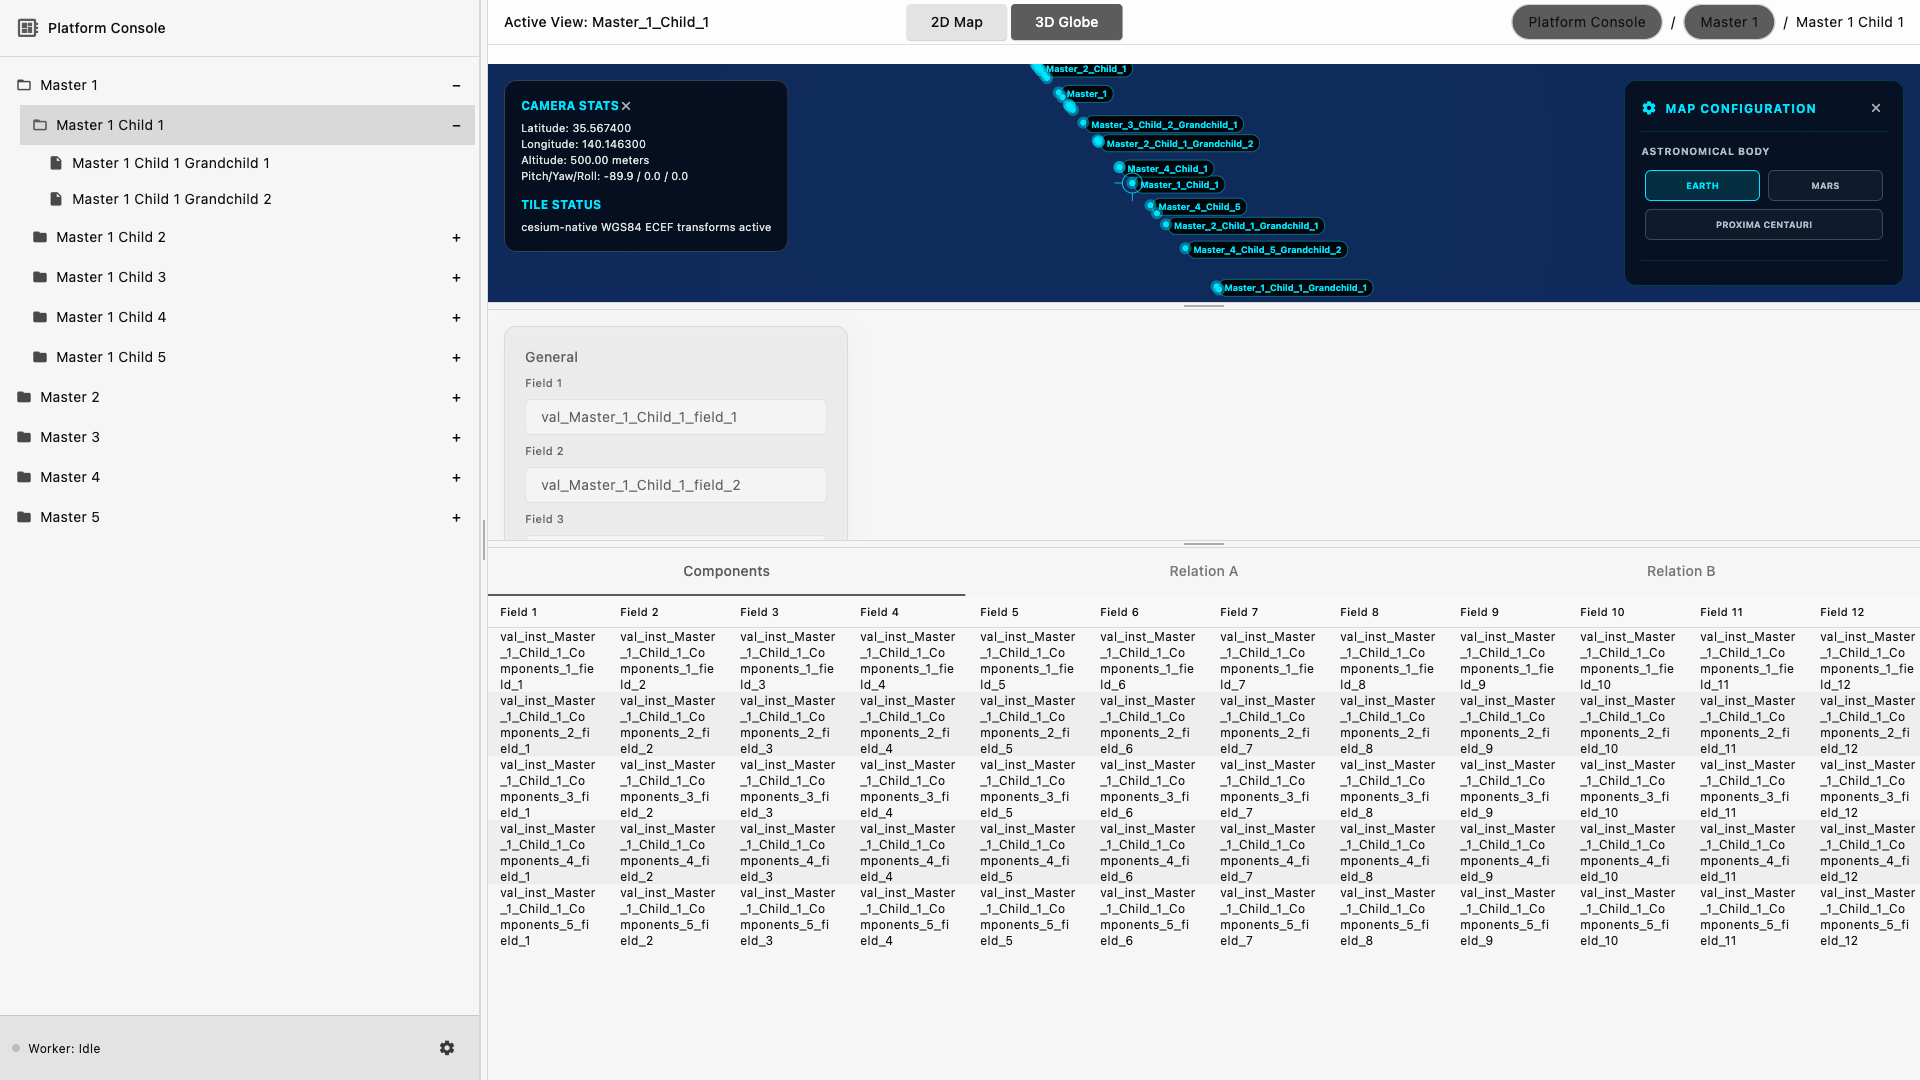
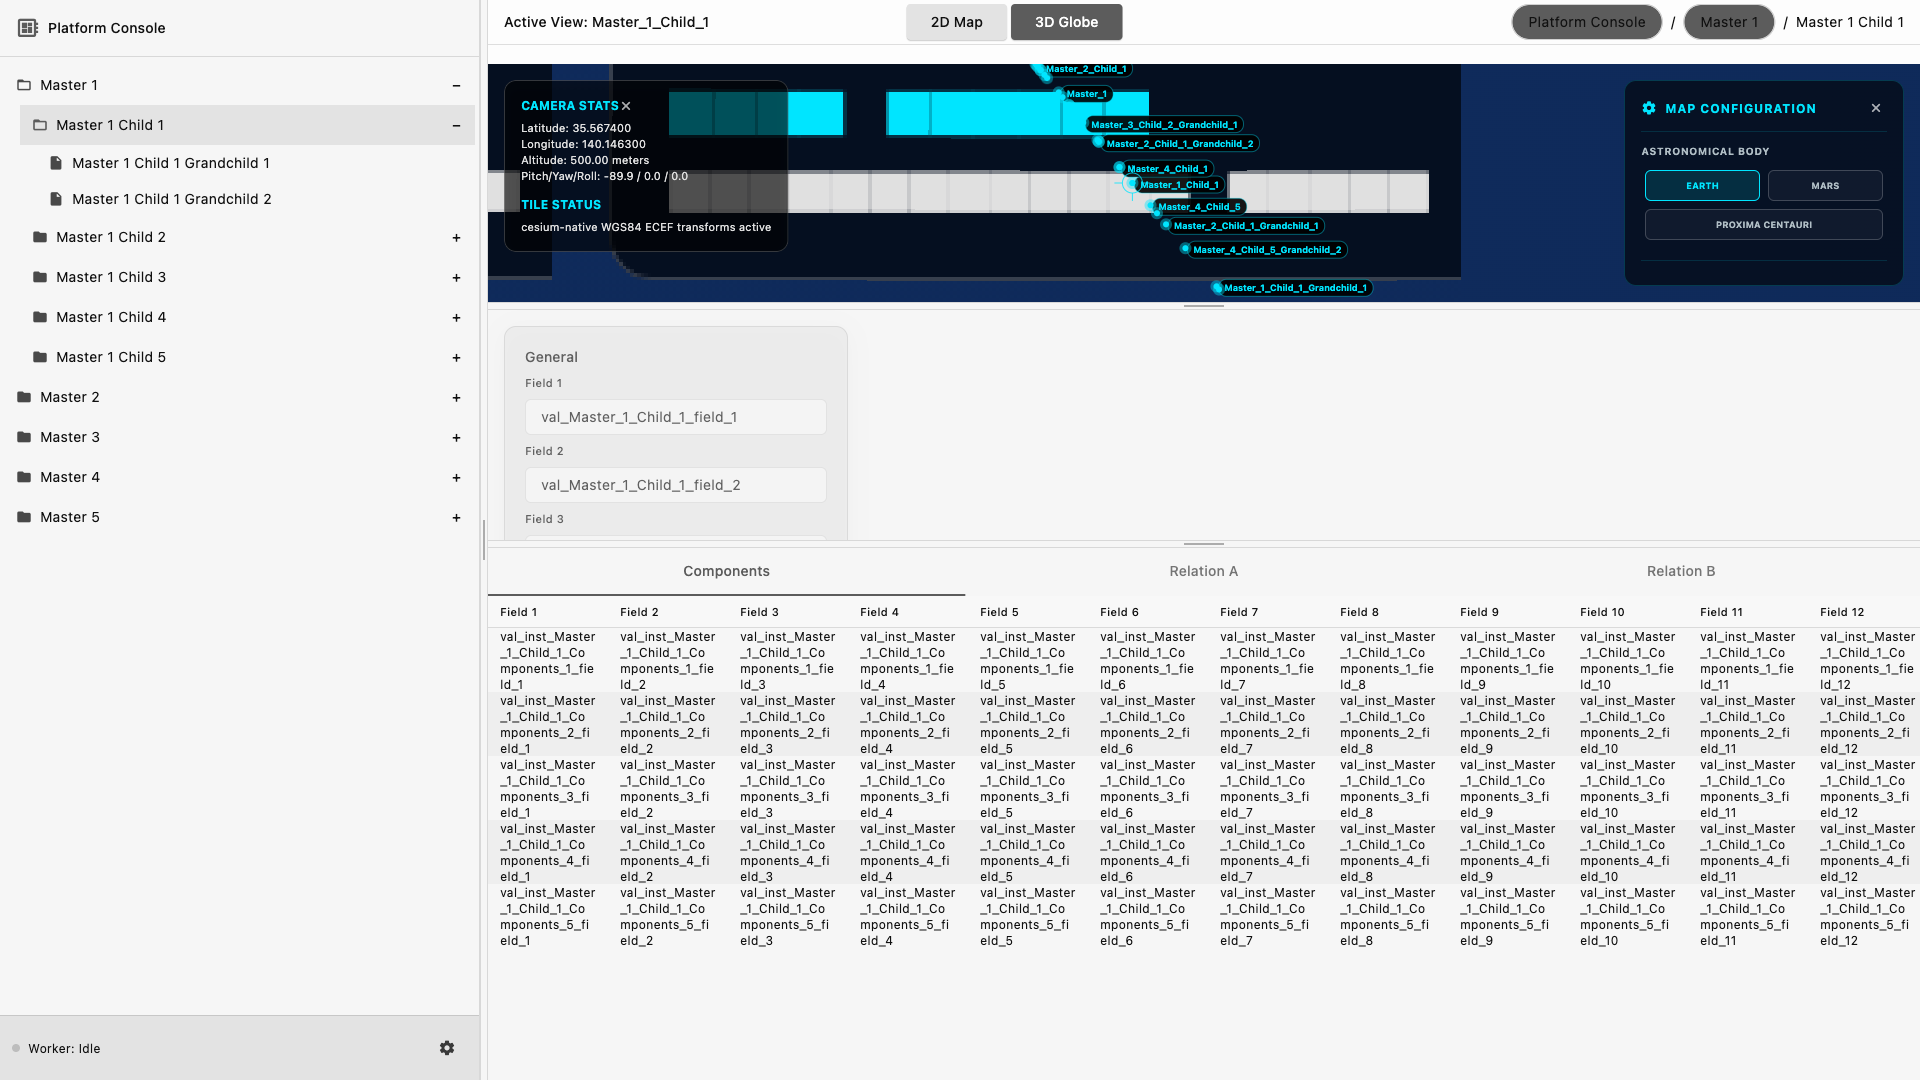
Refactor integration test to wait and stabilize tile loading before each screenshot

Changed region(s): [[0.3125, 0.0611, 0.7812, 0.275], [0.25, 0.0611, 0.2812, 0.275]]

diff --git a/app_flutter/integration_test/camera_gestures_navigation_test.dart b/app_flutter/integration_test/camera_gestures_navigation_test.dart
@@ -130,17 +130,25 @@ void main() {
 
     Future<void> waitForTilesToLoad() async {
       final state = tester.state(find.byType(Scene3DViewport)) as Scene3DViewportState;
+      int stableTicks = 0;
+      int lastCount = -1;
       int attempts = 0;
-      while (attempts < 50) {
+      while (attempts < 100) {
         final int count = state.tileRenderer?.loadedImagesCount ?? 0;
-        if (count > 0) {
+        if (count >= 4 && count == lastCount) {
+          stableTicks++;
+        } else {
+          stableTicks = 0;
+        }
+        lastCount = count;
+        if (stableTicks >= 5) {
           break;
         }
         await Future<void>.delayed(const Duration(milliseconds: 100));
         await tester.pump();
         attempts++;
       }
-      expect(state.tileRenderer?.loadedImagesCount, greaterThan(0), reason: 'Tiles should be loaded in the tile renderer cache');
+      expect(state.tileRenderer?.loadedImagesCount, greaterThanOrEqualTo(4), reason: 'At least 4 tiles should be loaded');
     }
 
     await tester.pumpWidget(
@@ -199,6 +207,7 @@ void main() {
     final double postFlyLng = controller.current.longitude;
     expect(postFlyLat, isNot(equals(initialLat)), reason: 'Latitude should update after fly-to');
     expect(postFlyLng, isNot(equals(initialLng)), reason: 'Longitude should update after fly-to');
+    await waitForTilesToLoad();
     await takeScreenshot('camera_fly_to_node');
 
     // Drag (Pan gesture)
@@ -219,6 +228,7 @@ void main() {
 
     final double postRotateHeading = controller.current.heading;
     expect(postRotateHeading, isNot(equals(initialHeading)), reason: 'Heading should change after rotate gesture');
+    await waitForTilesToLoad();
     await takeScreenshot('camera_gesture_rotated');
   });
 }